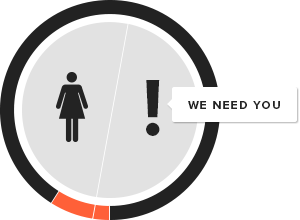
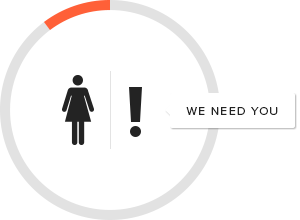
New assets for white dudes/everyone else; fixes #28

diff --git a/app/css/main.sass b/app/css/main.sass
@@ -272,12 +272,12 @@ $splash-image-height: 420px
       width: 75px
 
 .callout-img--white-dudes, .callout-img--everyone-else
-  +size(259px 150px)
+  +size(260px 150px)
   margin-top: 0
 .callout-img--white-dudes
-  +retina-image(/img/icons-dudes-sm, 259px 150px)
+  +retina-image(/img/icons-dudes-sm, 260px 150px)
 .callout-img--everyone-else
-  +retina-image(/img/icons-others-sm, 259px 150px)
+  +retina-image(/img/icons-others-sm, 260px 150px)
 
 @media #{$media-ipad}
   .break-the-mold
